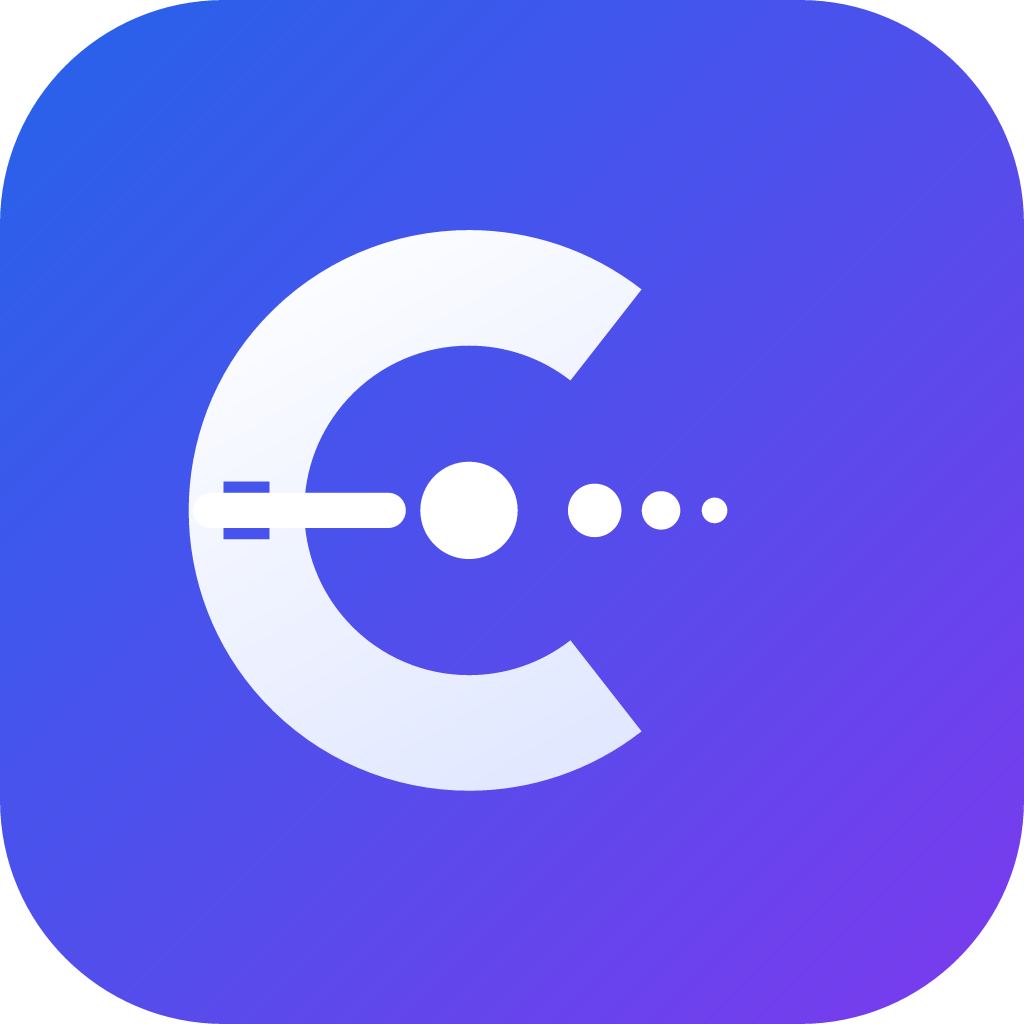
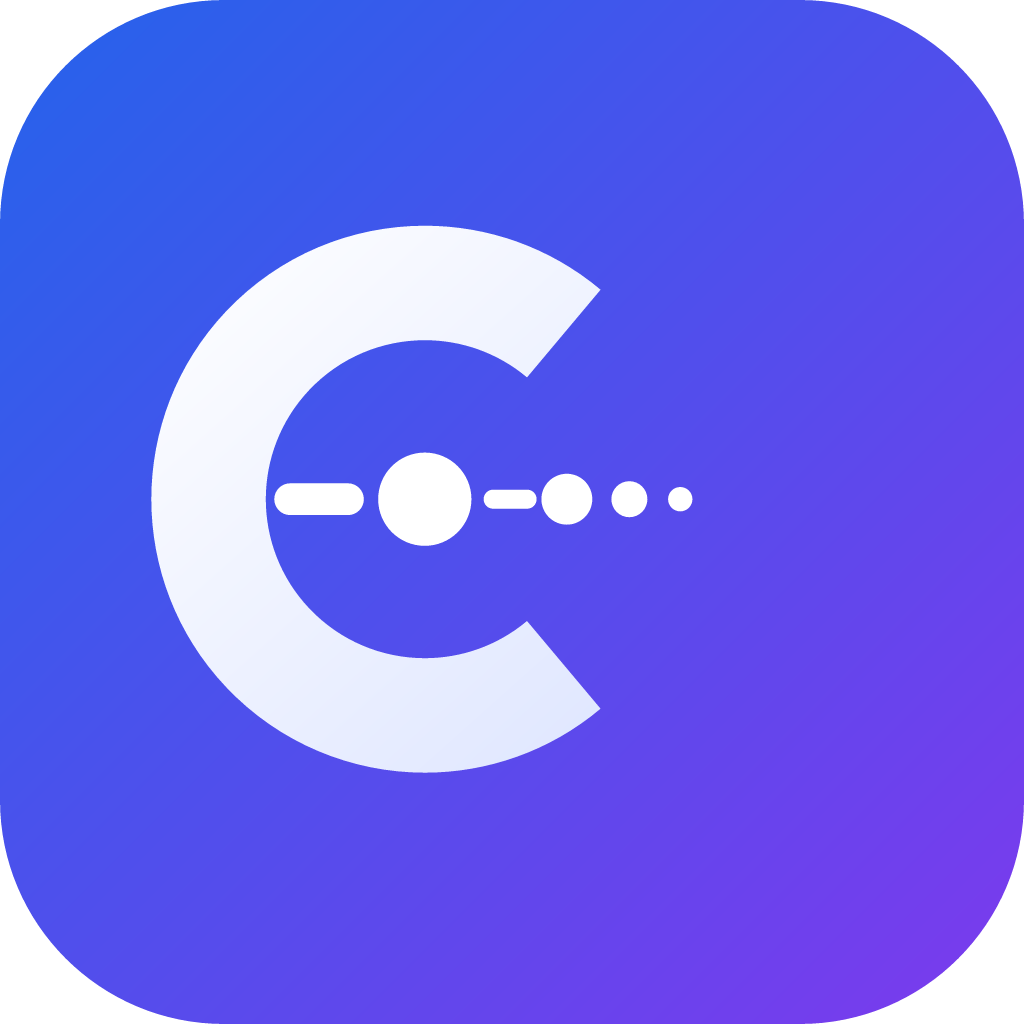
Lock Brand V1.0 SVGs to the Identity board and apply everywhere.
Recreate C Mark, custom A, and Spark lockups from the official board; dark-navy sidebar uses the light logo lockup.

diff --git a/components/dashboard/sidebar.tsx b/components/dashboard/sidebar.tsx
@@ -59,12 +59,12 @@ export function DashboardSidebar({
   return (
     <aside
       className={cn(
-        "flex h-full w-64 flex-col border-r border-border bg-card/95 backdrop-blur-sm",
+        "flex h-full w-64 flex-col border-r border-white/10 bg-[#0B1324] text-white",
         className,
       )}
     >
-      <div className="flex h-16 items-center border-b border-border px-5">
-        <Logo href="/dashboard" priority />
+      <div className="flex h-16 items-center border-b border-white/10 px-5">
+        <Logo href="/dashboard" tone="light" priority />
       </div>
 
       <nav className="flex-1 space-y-0.5 overflow-y-auto p-3" aria-label="Dashboard">
@@ -81,7 +81,9 @@ export function DashboardSidebar({
               onClick={onNavigate}
               className={cn(
                 "ds-nav-item",
-                isActive ? "ds-nav-item-active" : "ds-nav-item-idle",
+                isActive
+                  ? "bg-white/10 text-white"
+                  : "text-slate-300 hover:bg-white/5 hover:text-white",
               )}
               aria-current={isActive ? "page" : undefined}
             >
@@ -98,20 +100,20 @@ export function DashboardSidebar({
         })}
       </nav>
 
-      <div className="space-y-2 border-t border-border p-3">
+      <div className="space-y-2 border-t border-white/10 p-3">
         {userEmail && (
-          <div className="rounded-[var(--radius-md)] bg-muted/50 px-3 py-2.5">
-            <p className="text-[11px] font-medium uppercase tracking-wide text-muted-foreground">
+          <div className="rounded-[var(--radius-md)] bg-white/5 px-3 py-2.5">
+            <p className="text-[11px] font-medium uppercase tracking-wide text-slate-400">
               Signed in
             </p>
-            <p className="mt-0.5 truncate text-xs text-foreground">{userEmail}</p>
+            <p className="mt-0.5 truncate text-xs text-slate-200">{userEmail}</p>
           </div>
         )}
         <form action={signOut}>
           <Button
             type="submit"
             variant="ghost"
-            className="w-full justify-start gap-3 text-muted-foreground hover:text-foreground"
+            className="w-full justify-start gap-3 text-slate-300 hover:bg-white/5 hover:text-white"
           >
             <LogOut className="h-4 w-4" aria-hidden="true" />
             Sign out

diff --git a/docs/CHANGELOG.md b/docs/CHANGELOG.md
@@ -11,11 +11,11 @@ Versioning follows [Semantic Versioning](https://semver.org/spec/v2.0.0.html).
 
 ### Changed (Brand V1.0 — Official)
 
-- Approved Brand Identity board locked as source of truth
-- Production assets: `logo-full`, `logo-horizontal`, `wordmark`, `logo-icon`, `spark`, favicon, apple/manifest/app icons
-- Exact C Mark (piercing signal + central node + trail), open custom A with floating blue AI dot, gradient Spark
-- Components: `Logo`, `LogoIcon`, `Wordmark`, `Spark` — no CSS/font wordmarks
-- Board palette + Inter UI type; Spark reserved for AI features with pulse animation
+- Approved Brand Identity board locked as single source of truth
+- Production SVG lockups recreated to match board geometry: C Mark signal, custom A + AI dot, Spark
+- Components: `Logo`, `LogoIcon`, `Wordmark`, `Spark` — no temporary CSS/font logos
+- Dashboard sidebar uses Dark Navy + light lockup per board mockups
+- Board palette + Inter UI; Spark reserved for AI features
 - Transactional emails use official horizontal lockup artwork
 
 ### Changed (Sprint 2 — Reception Workspace Excellence)